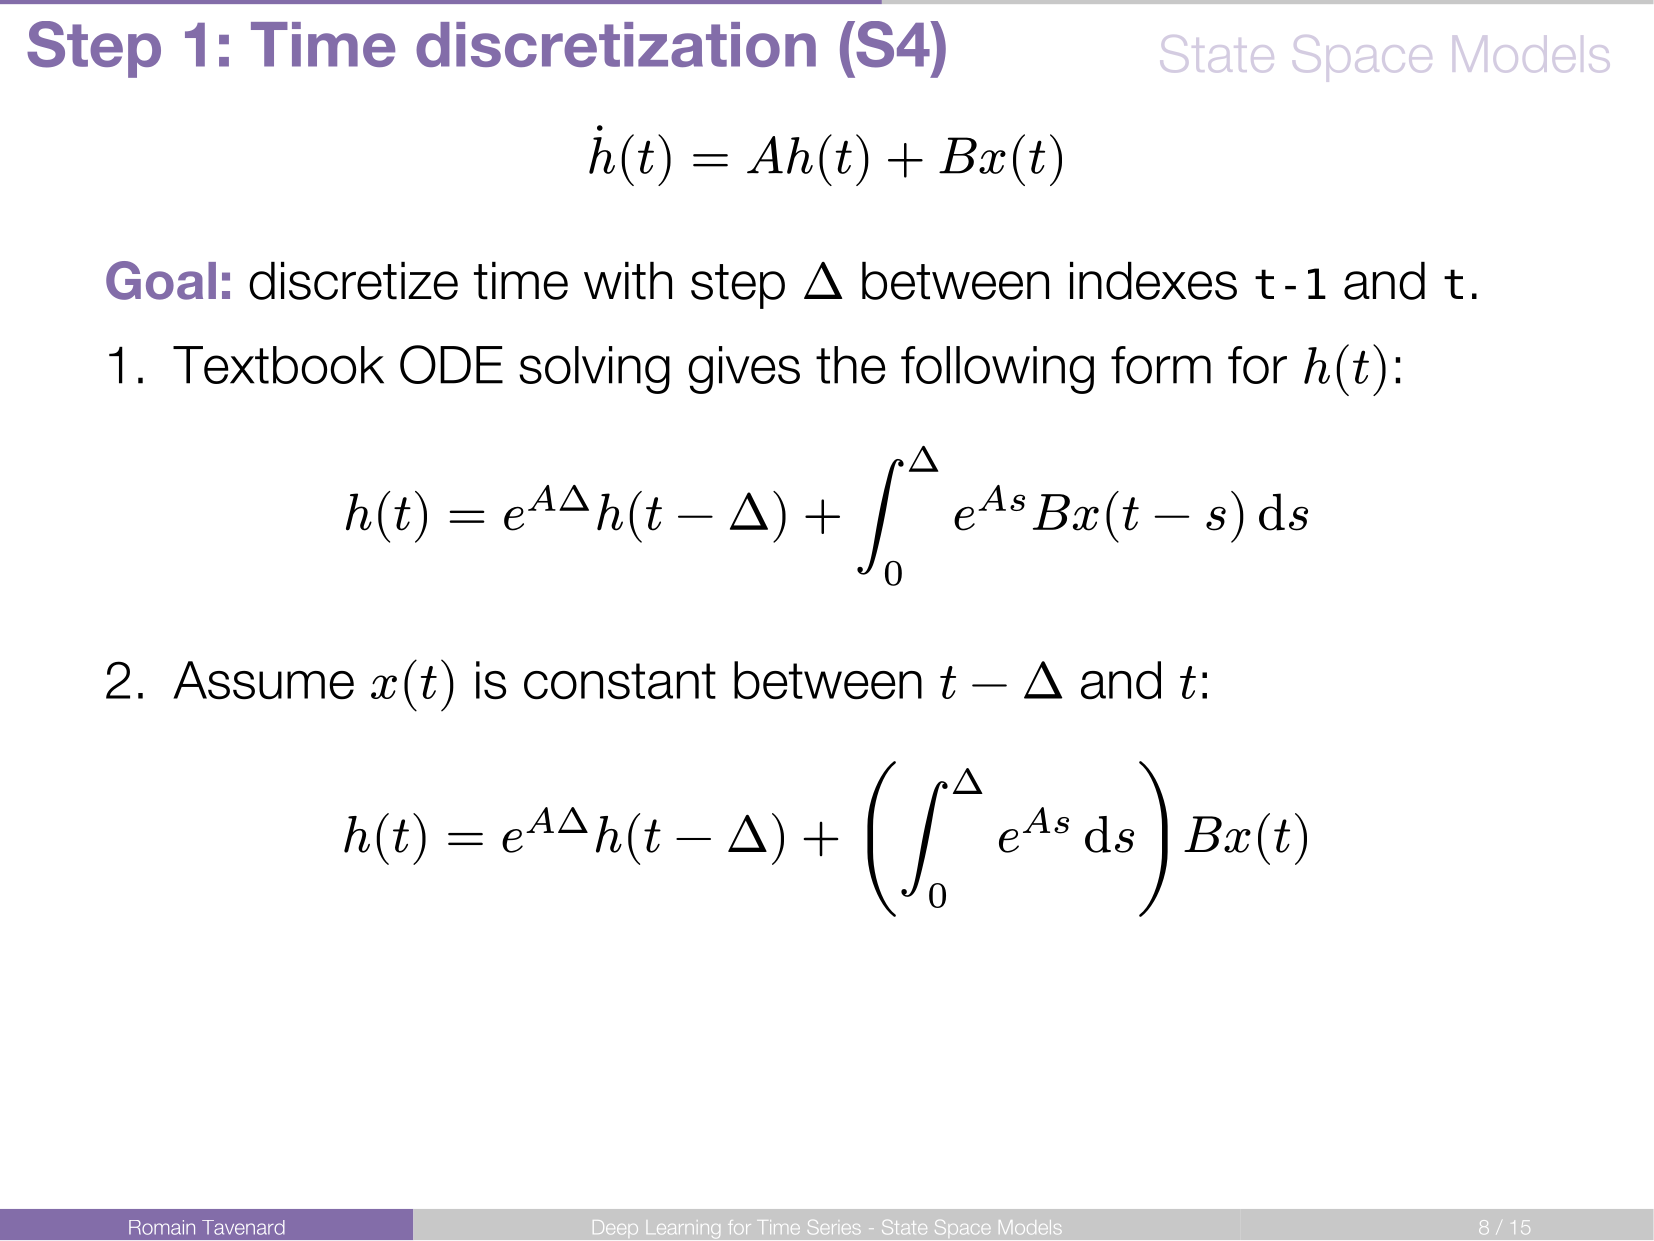
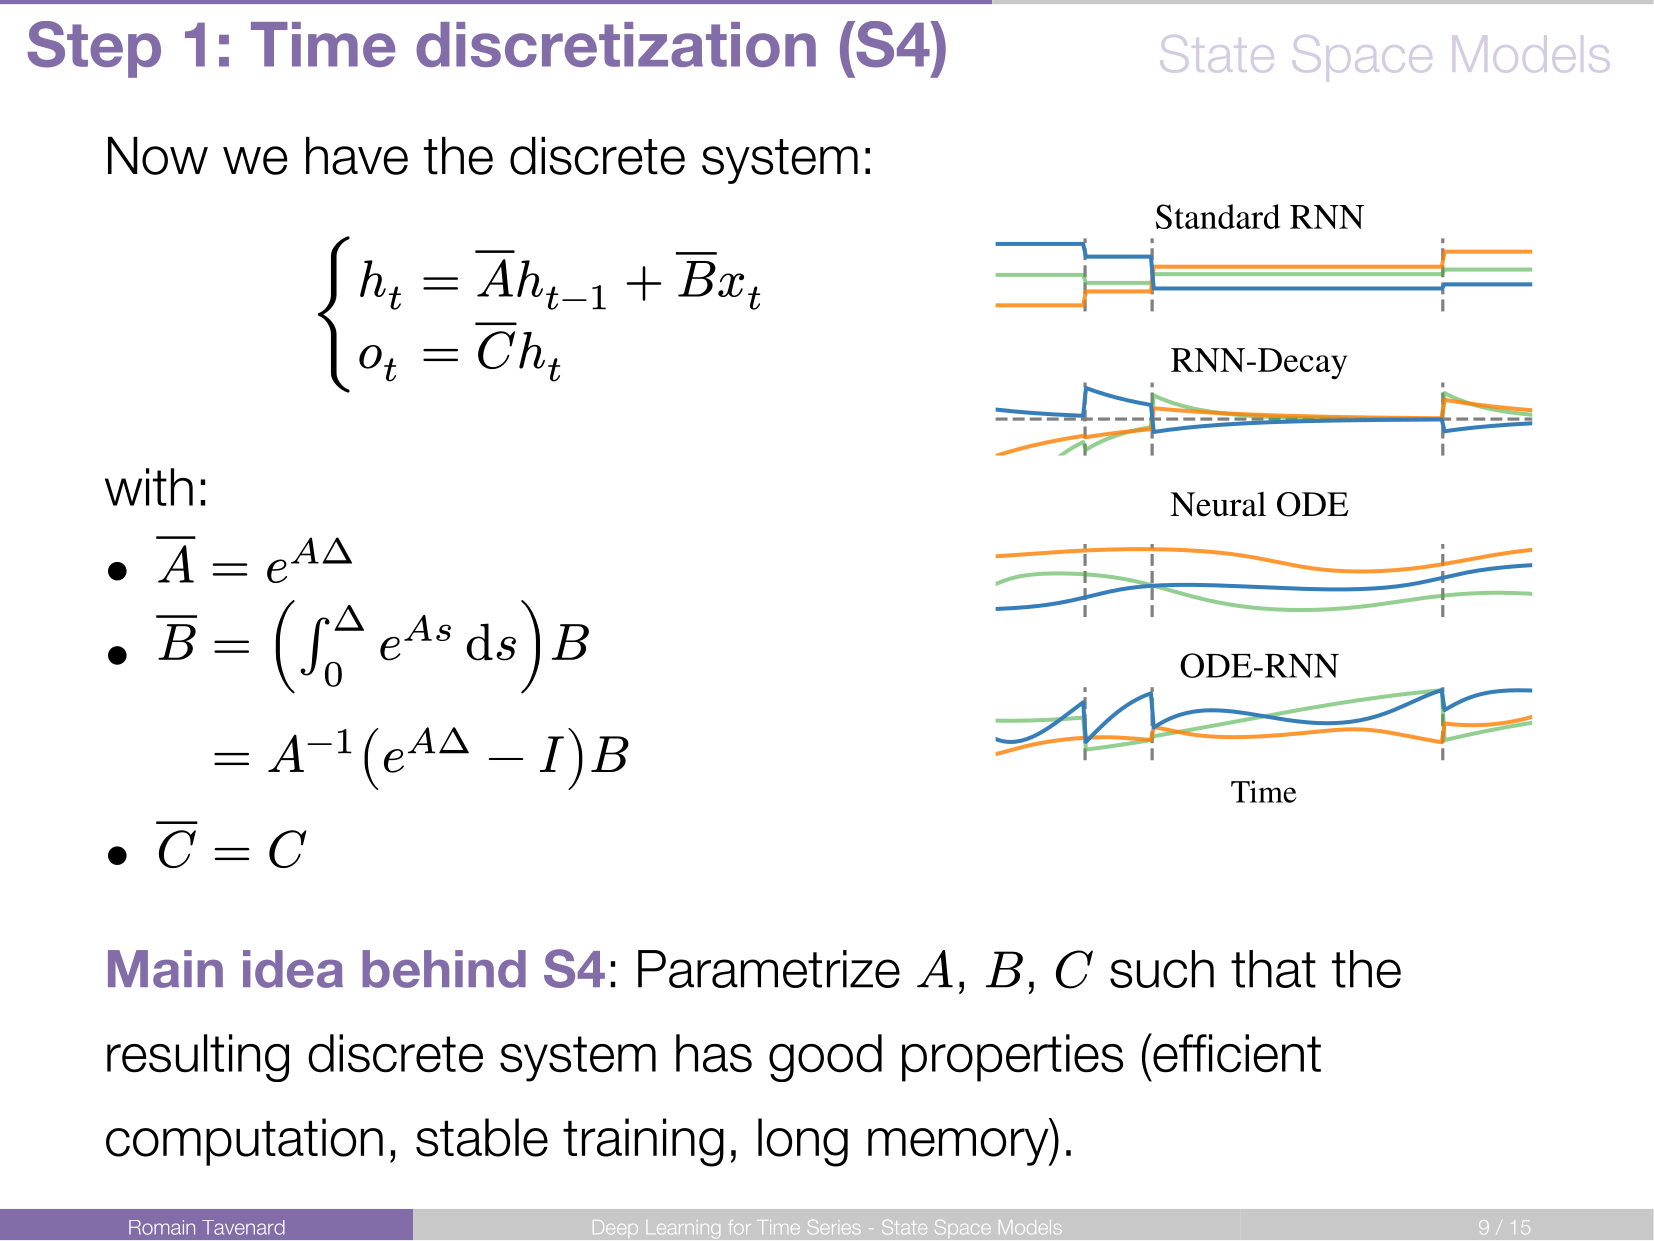
minor

diff --git a/index.md b/index.md
@@ -1,6 +1,7 @@
 # Deep Learning for Time Series
 
-Welcome to the course materials for **Deep Learning for Time Series**. This course provides a comprehensive dive into modern neural network architectures specifically tailored for temporal data, ranging from fundamental concepts to advanced sequence modeling.
+Welcome to the course materials for **Deep Learning for Time Series**. This course is part of the data science master programme at IP Paris.
+The course provides a comprehensive dive into modern neural network architectures specifically tailored for temporal data, ranging from fundamental concepts to advanced sequence modeling.
 
 - **Target Audience:** Data scientists, researchers, and students with a basic knowledge of Machine Learning and Deep Learning.
 
@@ -60,7 +61,7 @@ Welcome to the course materials for **Deep Learning for Time Series**. This cour
 
 ## About the Instructor
 
-**Romain Tavenard** is a Professor at _Université de Rennes 2_ and a researcher specializing in Machine Learning for Time Series.
+**Romain Tavenard** is a Professor at _Université de Rennes 2_ and a researcher specializing in Machine Learning for Time Series. He is the creator of the [`tslearn`](https://github.com/tslearn-team/tslearn) library.
 
 - [Personal Website](https://rtavenar.github.io)
 - [Bluesky](https://bsky.app/profile/rtavenar.bsky.social)
